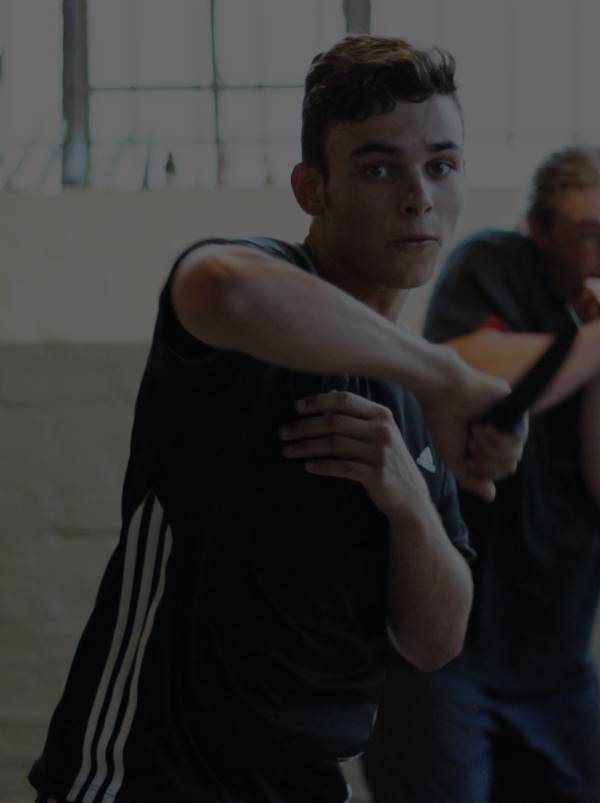
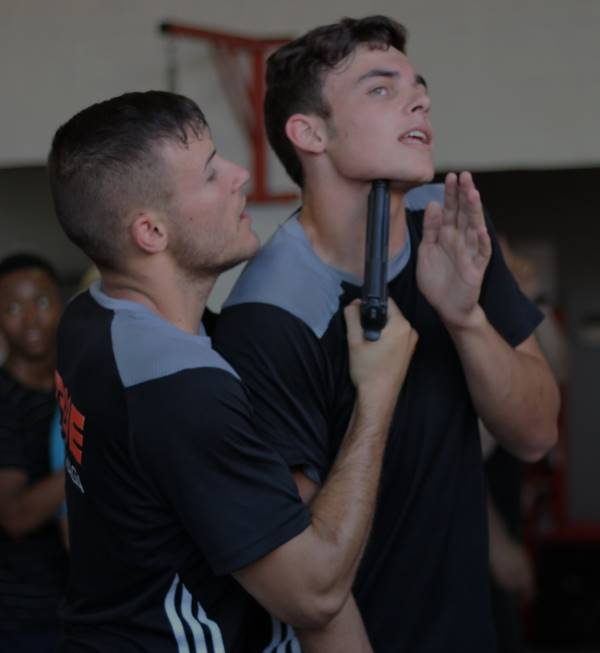
Changed testimonial and team images

diff --git a/index.html b/index.html
@@ -194,7 +194,7 @@
                     <div class="service">
                         <span class="fa fa-database fa-3x"></span>
                         <h4>Comprehensive</h4>
-                        <p>Our various courses cover every angle of attack with every weapon that you may be attacked with, whether it is a pistol, rifle, knife, bat, bottle or even a panga.</p>
+                        <p>Our various courses cover every angle of attack with every weapon that you may be attacked with, whether it is a pistol, rifle, knife, baton, bottle or even a panga.</p>
                     </div>
                 </div>
             </div>
@@ -445,9 +445,9 @@ confrontational situation is essential.<br><br>Click to have a look at our avail
                   </div>
 
                   <div class="item testimonials-div">
-                    <p>When we came back to South Africa last year, Sebastiaan found adjusting to life in SA and school, very difficult. In short - we had a complicated, <strong>angry and depressed</strong> teen in the house.<br><br>Krav has <strong>changed him completely</strong>.  Over the last ten months he has developed into a beautiful, helpful and lovely young man, and both Conrad and I agree, that much of the credit should go to both of you as trainers, and the Krav system.</p>
+                    <p>Ek het vir 11 jaar karate by twee verskillende style gedoen voor ek met <strong>Kalah</strong> klasse begin het. Dit is egter die eerste keer dat ek voel ek leer vaardighede wat kan help om myself <strong>effektief</strong> te verdedig. Ek voel ek as vrou kry die geleentheid om in ń veilige, beskermende omgewing tegnieke te leer. Dit is belangrik dat ons, ons self bemagtig deur te leer om iets vir ons self te doen. Dié Kalah klasse skep die geleentheid vir my. Baie dankie Jacques.</p>
                     <br>
-                    <h6>Elise-Marie Tancred</h6>
+                    <h6>Michelle Lewis</h6>
                   </div>
                 </div>
             </div>
